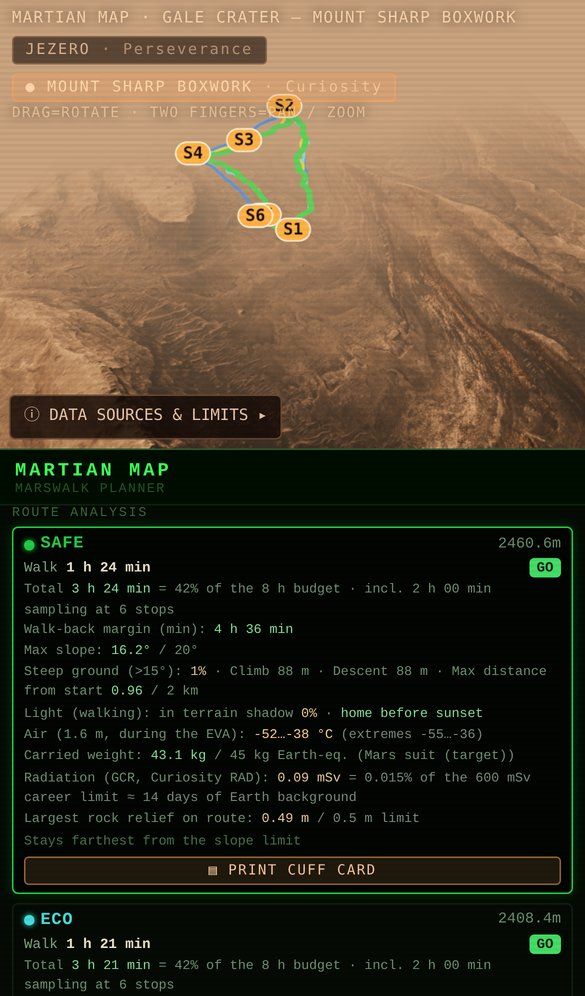
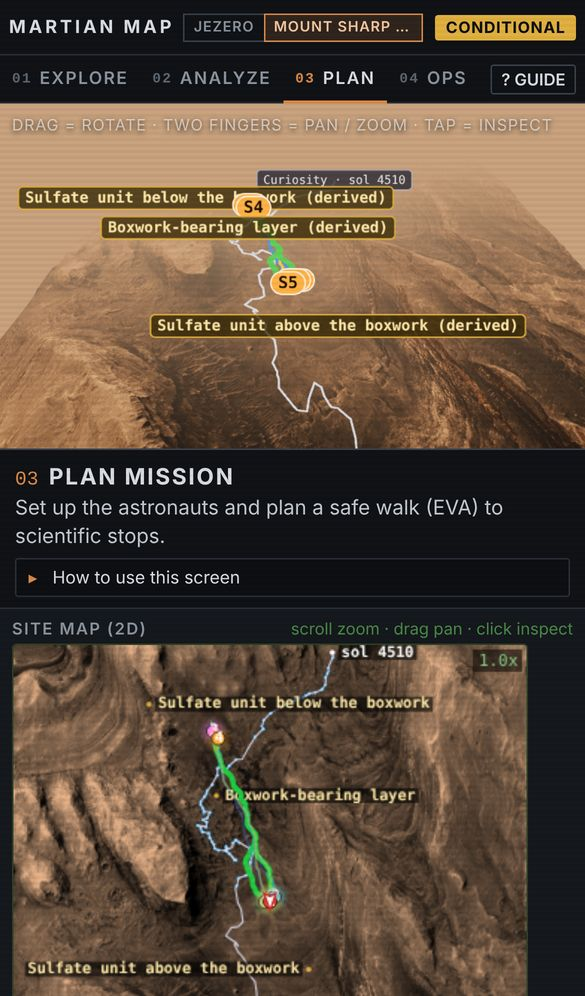
docs(readme): four workspaces, dust-devil re-route, wrist console, AI segmentation, new screenshots
- Intro, at-a-glance, quick start and the 13-step table with the workspace of each step
- New section: the interface — four workspaces (panel order, catalog, inspector, timeline, crew framing)
- Dust devil: 25 m safety zone, SAFE re-plan to the destination, retrace fallback (replaces the old abort text)
- Martian EVA Cuff: screens, honest labels, offline copy, printed backup checklist
- Challenge table, provenance (AI-predicted), tests (174 JS + 11 Python + 12 segmentation),
  honest limits, credits (AI4Mars, MobileNetV3), repository map, rebuild workflows, doc links
- Screenshots: hero (Operations), Explore / Analyze / Plan, dust re-route, wrist console, tablet, phone

Claude-Session: https://claude.ai/code/session_01XjSewtSs7RhtByy8FnJEXA

diff --git a/README.md b/README.md
@@ -13,11 +13,11 @@
 
 ---
 
-The first people to walk on Mars will want the best map possible. **Martian Map** is that map for two real places where NASA rovers have worked: the floor of **Jezero crater** around the Perseverance landing site, and the **boxwork ridges of Mount Sharp** in Gale crater that Curiosity explored in 2025–26. It layers data from **four NASA Mars missions** into a single 3D view, plans a two-person **Marswalk** that visits the most interesting rocks, minerals and chemistry, proves at every step that the crew can still walk home (or back to their rover), plays the whole EVA out on a mission clock — and prints it as an Apollo-style **cuff card** for the wrist.
+The first people to walk on Mars will want the best map possible. **Martian Map** is that map for two real places where NASA rovers have worked: the floor of **Jezero crater** around the Perseverance landing site, and the **boxwork ridges of Mount Sharp** in Gale crater that Curiosity explored in 2025–26. It layers data from **four NASA Mars missions** into a single 3D view, plans a two-person **Marswalk** that visits the most interesting rocks, minerals and chemistry, proves at every step that the crew can still walk home (or back to their rover), plays the whole EVA out on a mission clock — re-planning a safe route on the spot when a dust devil crosses the way — and puts it on the astronaut's wrist as a **wrist console** and an Apollo-style printed **cuff card**. The work is split into four screens that follow a mission from start to finish: **01 EXPLORE → 02 ANALYZE → 03 PLAN MISSION → 04 OPERATIONS**.
 
 > **Why another Mars map?** Tools like JPL's Mars Trek and the USGS–NASA geologic maps layer data over the whole planet, at regional scale. An astronaut on a single Marswalk needs the opposite: one 2 km × 2 km area, every layer on the same **4 m grid**, rocks picked out at **1 m**, and a plan that says *where to walk, what to sample, and when to turn back*. Martian Map is built for that hyperlocal scale.
 
-![EV1 kneels to sample an olivine stop at Jezero while EV2 documents; the HUD shows the mission clock, the live walk-back margin, sun, air temperature and dose; the side panel shows the map, terrain modes and EVA limits](docs/img/hero.jpg)
+![04 OPERATIONS at Jezero: EV1 kneels to sample stop 1 while EV2 documents; the EVA timeline runs across the top; the HUD shows the mission clock, walk-back margin, distance from the habitat, sun, air temperature, dose and the oxygen & mass panel; the side panel shows the site map, START / RESUME EVA, the camera angle and the helmet camera](docs/img/hero.jpg)
 
 ## At a glance
 
@@ -34,10 +34,14 @@ The first people to walk on Mars will want the best map possible. **Martian Map*
 | **Oxygen & mass** | live O₂ use per NASA BVAD life-support scenario (0.076 / 0.15 / 1.0 kg/h), O₂ for the walk home + reserve, carried mass falling as O₂ is used ([details](#oxygen-and-carried-mass)) |
 | **EVA assessment** | three separate results, no combined score: **A. Payload & Mass** · **B. Dust Exposure & Equipment Reliability** (qualitative, sourced) · **C. Terrain & Mobility** ([details](#suit-payload-and-dust--three-separate-assessments)) |
 | **Hazard map** | slope and rock walls, obstacle buffer, closed depressions, steep / rough ground, rover reach, ground known only from orbit |
-| **Provenance** | every layer labelled direct measurement / orbital / derived / transferred reference / modelled / simulated |
+| **Dust devil during the EVA** | 25 m safety zone around it, a new **SAFE route to the destination** planned from the point where the crew sees it; only if none is safe, back to the start the way they came ([details](#dust-devil-on-the-route--a-new-safe-route-not-a-run-home)) |
+| **Provenance** | every layer labelled direct measurement / orbital / derived / transferred reference / modelled / simulated / AI-predicted |
 | **EVA limit sets** | Lunar ConOps (NASA) or **Mars conservative** (derived for Mars gravity) |
-| **Outputs** | 3D planning view, live EVA HUD, printable **cuff card** (A4 / PDF); works on desktop, tablet and phone |
-| **Tests** | 146 JavaScript (incl. real-data runs of every objective on both sites, and Moon mode) + 7 Python + lint + README figure check on every push before deploy; browser tests (desktop, tablet, phone, cuff-card PDF, Gale, Moon) in their own workflow |
+| **AI terrain segmentation** | soil / bedrock / sand / big rock on 445 rover Navcam frames, model trained on NASA/JPL AI4Mars — measured accuracy, never changes a route ([details](#mars-ai-terrain-segmentation--what-the-ground-in-the-rover-images-is)) |
+| **3D terrain** | 4 m mesh lit by the **1 m HiRISE DTM** relief shading (×1 true, ×2 / ×4 emphasised), HiRISE image or elevation colours, data layers draped on top |
+| **Interface** | four workspaces — **Explore · Analyze · Plan Mission · Operations** — with a data catalog, one inspector for every point / layer / stop / route, an EVA timeline band and a first-visit guide ([details](#the-interface--four-workspaces)) |
+| **Outputs** | 3D planning view, live EVA HUD, **Martian EVA Cuff** wrist console, printable **cuff card + EVA backup checklist** (2 × A4 / PDF), JSON export, share link; works on desktop, tablet and phone |
+| **Tests** | 174 JavaScript (incl. real-data runs of every objective on both sites, and Moon mode) + 11 Python + lint + README figure check on every push before deploy; browser tests (all four workspaces, desktop, tablet, phone, two-page cuff PDF, wrist console, Gale, Moon) in their own workflow; 12 Python tests for the segmentation pipeline in its own workflow |
 
 ## Try it
 
@@ -47,32 +51,72 @@ The first people to walk on Mars will want the best map possible. **Martian Map*
 | **Offline** | **Code → Download ZIP** → unzip → `MartianMap/Start-Windows.bat` (Windows) or `MartianMap/start-mac-linux.sh` (macOS / Linux). Needs only Python 3. |
 | **From source** | `pnpm install`, then `pnpm dev` (tests: `pnpm test`; lint: `pnpm --filter martian-map lint`; browser tests after a build: `pnpm --filter martian-map e2e`) |
 
-**Quick tour** — the 13 numbered buttons at the top of the panel walk through the same steps and show the next one. A step counts as done only when its inputs are complete and current; changing an upstream setting re-opens the steps that depend on it.
+**First visit.** A short guide opens once: what Martian Map is, the four workspaces and a three-click quick start. It is always under **? GUIDE** in the top bar, and each workspace has a closed *How to use this screen* slot with its three steps. Long explanations (what a route mode optimises, why a decision is CONDITIONAL …) sit in closed slots that open with a click, so the screen stays readable.
 
-1. **Mission objective** — choose one of the site's five; *PLAN SCIENCE EVA* stays locked until you do. Changing it later re-plans the stops.
-2. **Exploration site** — **JEZERO** or **MOUNT SHARP BOXWORK** at the top left (each site has its own objectives and layers).
-3. **Crew & equipment** — suit, **EVA limits** (Lunar ConOps / Mars conservative), pressurized rover as safe haven, *keep 4 m from obstacles*, **oxygen** scenario, initial O₂ and reserve.
-4. **Payload & mass** — one equipment figure or an itemised payload; total, limit and remaining capacity.
-5. **Dust & equipment reliability** — the four dust protection settings (done when none is left "not specified").
-6. **Data layers** — Map Layers (minerals, thermal inertia, geology, rocks, slope …), **COMPARE LAYERS** swipe, **DRAPE ON 3D TERRAIN**; *provenance table* in the data-sources box.
-7. **Hazard assessment** — the **Hazards** layer.
-8. **Science stops** — *PLAN SCIENCE EVA*; tap a stop for its card (why chosen, what to look at, evidence, risk, confidence), **ground view** or **chemistry**.
-9. **EVA route** — SAFE / ECO / FAST / AUTO, each with its elevation profile.
-10. **Terrain & mobility** — part C of the EVA assessment under the decision.
-11. **GO / NO-GO** — the mission summary, the decision with its reasons, and the three separate assessments.
-12. **EVA simulation** — **START EVA** (×1 … ×600, **ABORT EVA**, **SIMULATE DUST DEVIL**); the HUD shows the decision, payload, dust and mobility status and the O₂ & mass panel.
-13. **Mission export & cuff card** — **PRINT CUFF CARD** (objective, coordinates, stations with the direction home, hazards, equipment and dust warnings, data limits), **EXPORT JSON** (objective, stop cards, decisions, assessments, provenance), **SHARE LINK**.
+**Quick start — three clicks**
 
-## On a tablet or a phone
+1. **03 PLAN MISSION** → choose a mission objective → **PLAN SCIENCE EVA**.
+2. Read the decision at the top right (**GO / CONDITIONAL / NO-GO / INSUFFICIENT DATA**) and open *Why?* for the reasons.
+3. **04 OPERATIONS** → **START EVA** to watch the walk, **OPEN WRIST CONSOLE**, or **PRINT CUFF CARD**.
 
-The same app adapts to the screen, so it can travel from the habitat display to a tablet or the crew's phone. On a phone the panel becomes a sheet under the 3D view and the EVA HUD shrinks to the four safety numbers.
+**The whole workflow — 13 steps.** The numbered strip at the top of the Plan Mission and Operations panels walks through the steps in order and shows the next one; each button opens the workspace that holds that step. A step counts as done only when its inputs are complete and current; changing an upstream setting re-opens the steps that depend on it.
+
+| # | Step | Where | What you do |
+|---:|---|---|---|
+| 1 | **Mission objective** | 03 PLAN MISSION | choose one of the site's five; *PLAN SCIENCE EVA* stays locked until you do. Changing it later re-plans the stops |
+| 2 | **Exploration site** | top bar | **JEZERO** or **MOUNT SHARP BOXWORK** (each site has its own objectives and layers) |
+| 3 | **Crew & equipment** | 03 PLAN MISSION → mission configuration | suit, **EVA limits** (Lunar ConOps / Mars conservative), pressurized rover as safe haven, *keep 4 m from obstacles*, **oxygen** scenario, initial O₂ and reserve |
+| 4 | **Payload & mass** | 03 PLAN MISSION | one equipment figure or an itemised payload; total, limit and remaining capacity |
+| 5 | **Dust & equipment reliability** | 03 PLAN MISSION | the four dust protection settings (done when none is left "not specified") |
+| 6 | **Data layers** | 01 EXPLORE · 02 ANALYZE | tick layers in the **data catalog** (several at once, each with its own opacity), **COMPARE LAYERS** swipe, **DRAPE ON 3D TERRAIN**; ⓘ or a click on the terrain opens the inspector |
+| 7 | **Hazard assessment** | 02 ANALYZE | the **Hazards** layer |
+| 8 | **Science stops** | 03 PLAN MISSION | *PLAN SCIENCE EVA*; open a stop for its card (why chosen, what to look at, evidence, risk, confidence), **ground view** or **chemistry** |
+| 9 | **EVA route** | 03 PLAN MISSION | SAFE / ECO / FAST / AUTO — each with what it optimises, its cost and elevation profile — and the route comparison |
+| 10 | **Terrain & mobility** | 04 OPERATIONS | part C of the EVA assessment under the decision |
+| 11 | **GO / NO-GO** | 04 OPERATIONS | the mission summary, the decision with its reasons, and the three separate assessments |
+| 12 | **EVA simulation** | 04 OPERATIONS | **START EVA** (×1 … ×600, **ABORT EVA**, **SIMULATE DUST DEVIL**), camera angle, helmet camera, **wrist console**; the HUD shows the decision, payload, dust and mobility status and the O₂ & mass panel |
+| 13 | **Mission export & cuff card** | 04 OPERATIONS | **PRINT CUFF CARD** (page 1: objective, coordinates, stations with the direction home, hazards, equipment and dust warnings, data limits; page 2: EVA backup checklist), **EXPORT JSON** (objective, stop cards, decisions, assessments, provenance), **SHARE LINK** |
+
+## The interface — four workspaces
+
+The Mars sites open in four workspaces, one per stage of a mission. Switching keeps everything (plan, layers, EVA clock); only the layout changes, and every number still comes from the same planner. The top bar always shows the site and the mission status: objective · route · decision · EVA. Design notes and the NASA tools that inspired the layout (Mars Trek, RSVP, Playbook, Eyes): [`docs/WORKSPACES.md`](docs/WORKSPACES.md).
+
+| Workspace | Left | Centre | Right panel, top to bottom |
+|---|---|---|---|
+| **01 EXPLORE** — look at the site and what each layer shows | data catalog | 3D terrain | inspector of the clicked point, site map, camera |
+| **02 ANALYZE** — check the data the plan rests on, and what is missing | data catalog | 3D terrain | inspector, terrain analysis (layers, legend, compare, drape), scientific data available and missing, helmet camera, **Mars AI terrain segmentation**, provenance table |
+| **03 PLAN MISSION** — set up the crew and plan the walk | — | 3D terrain + **EVA timeline** | **site map** → **waypoints** (mark points on the map) → **route modes** SAFE / ECO / FAST / AUTO → objective & science stops → route comparison → mission configuration |
+| **04 OPERATIONS** — decide and run the EVA | — | 3D terrain + **EVA timeline** | **site map** → **START EVA** (the route chosen in Plan, not asked again) → **camera angle** (free / follow EV1 / overview) → **helmet camera** (image processing: elevation / slope view) → **Martian EVA Cuff** → mission summary & GO / NO-GO → contingency, telemetry, export, log |
+
+- **Data catalog** — built from what the site actually loaded, by category (imagery, topography, geology, mineralogy, thermal, AI terrain segmentation, hazards, atmospheric, radiation). Tick a layer to drape it on the 3D terrain; several layers can be draped at once, each with its opacity and draw order; ⓘ opens its description and source.
+- **Inspector** — one card for a map point (coordinates, elevation, slope, hazard, distance home, *add as waypoint*), a data layer, a science stop or a route, with tabs for overview, scientific evidence, data source, technical details and mission relevance.
+- **EVA timeline** — walking legs, stops (S1, S2 …) and the walk home of the active route on one time axis, with the EVA budget, point of no return, sunset and oxygen limits; a cursor follows the EVA clock during playback, and a click on a stop opens it in the inspector.
+- **3D view** — the follow camera frames both astronauts, EV1 and EV2, side by side and full height, so their position and posture are clear from the first second; *Overview* shows the whole route from above. The astronauts carry the team's Periapsis patch on their backpacks.
+- **Readable on a screen across the room** — larger text across all panels, closed slots for long explanations, and status always written as a word next to its colour.
 
 <table>
 <tr>
-<td width="73%"><img src="docs/img/tablet.jpg" alt="Tablet (iPad Pro 11, landscape): EVA playback at Jezero — EV1 samples stop 1 while the HUD shows mission time, walk-back margin, distance from the habitat, sun, air temperature and dose; the side panel shows the dose comparison and the SAFE route card"></td>
-<td width="27%"><img src="docs/img/phone.jpg" alt="Phone (iPhone 13, portrait): a planned Gale EVA seen from above, with its SAFE route card in the sheet below"></td>
+<td width="50%"><img src="docs/img/ws-explore.jpg" alt="01 EXPLORE at Jezero: the data catalog on the left with CRISM minerals draped on the terrain, the planned route from above in the centre, and the inspector of a clicked map point (coordinates, elevation, slope, hazard, distance home) above the site map on the right"></td>
+<td width="50%"><img src="docs/img/ws-analyze.jpg" alt="02 ANALYZE at Jezero: the data catalog including the AI terrain segmentation and hazard layers, the two astronauts on the terrain, and the inspector of the CRISM mineral layer above the terrain analysis with the surface geology map and its legend"></td>
 </tr>
-<tr><td align="center"><b>Tablet</b> — EVA playback at Jezero</td><td align="center"><b>Phone</b> — a planned Gale EVA and its route card</td></tr>
+<tr><td align="center"><b>01 EXPLORE</b> — catalog, drapes, point inspector</td><td align="center"><b>02 ANALYZE</b> — layer inspector, terrain analysis</td></tr>
+<tr>
+<td width="50%"><img src="docs/img/ws-plan.jpg" alt="03 PLAN MISSION at Jezero: the EVA timeline across the top, both astronauts full height in the 3D view, and on the right the site map with the planned route, the waypoint list with ADD / REMOVE / PLAN PATH and the SAFE / ECO / FAST / AUTO route modes"></td>
+<td width="50%"><img src="docs/img/hero.jpg" alt="04 OPERATIONS at Jezero during the EVA: site map, RESUME / ABORT EVA, camera angle and helmet camera on the right, the HUD over the 3D view"></td>
+</tr>
+<tr><td align="center"><b>03 PLAN MISSION</b> — map → waypoints → route modes</td><td align="center"><b>04 OPERATIONS</b> — map → EVA → camera angle → helmet camera</td></tr>
+</table>
+
+## On a tablet or a phone
+
+The same app adapts to the screen, so it can travel from the habitat display to a tablet or the crew's phone. The four workspaces stay in the top bar (short names on a tablet; their own row on a phone). On a phone the panel becomes a sheet under the 3D view, the 3D view takes touch gestures (drag = rotate, two fingers = pan / zoom, tap = inspect) and the EVA HUD shrinks to the four safety numbers.
+
+<table>
+<tr>
+<td width="73%"><img src="docs/img/tablet.jpg" alt="Tablet (iPad Pro 11, landscape), 04 OPERATIONS: EVA playback at Jezero — EV1 samples stop 1 while the HUD shows mission time, walk-back margin, distance from the habitat, sun, air temperature, dose and oxygen; the side panel shows the site map, RESUME / ABORT EVA and the camera angle"></td>
+<td width="27%"><img src="docs/img/phone.jpg" alt="Phone (iPhone 13, portrait), 03 PLAN: a planned Gale EVA seen from above with the derived stratigraphic levels labelled, and the site map in the sheet below"></td>
+</tr>
+<tr><td align="center"><b>Tablet</b> — 04 OPERATIONS, EVA playback at Jezero</td><td align="center"><b>Phone</b> — 03 PLAN, a Gale EVA and the site map</td></tr>
 </table>
 
 ## Two sites, one pipeline
@@ -154,10 +198,11 @@ Every chosen stop has a **stop card**: position (lat / lon and metres from the s
 | Identify a **science objective** and a location | Five selectable objectives per site that **change the planner's candidates and weights** — from Jezero's olivine–smectite alteration to Gale's boxwork ridges and ChemCam re-sampling; each with purpose, relevance and sources, and a card for every stop saying why it was chosen. The Gale site follows the challenge's own example: Curiosity's 2025 boxwork study on Mount Sharp |
 | **Astronaut safety first**; space weather, radiation | A **dose-rate comparison** — Earth, ISS, Moon, Mars, all measured — so the crew sees why Mars is different; a **Mars-conservative EVA limit set**; walk-back margin and point of no return; per-route **GCR dose** vs the 600 mSv NASA career limit; **DONKI space-weather advisory** (solar particle event within ±2 days → postpone); **daylight** (home before sunset, or NO-GO); terrain shadow, expected air temperature. See [Safety first](#safety-first) |
 | Spacesuits and **carried equipment** affect mobility | **Mission setup**: Mars suit (104 kg) or lunar xEMU (170 kg) plus equipment; the carried weight on Mars must stay under NASA's 45 kg Earth-equivalent limit, or the plan is NO-GO. **Mars conservative** limits slow the walk by the measured suited cost at Mars gravity |
-| A **route map** that **avoids obstacles such as large rocks** | A* on walking time; slopes above 20° and **rock outcrops / boulders** found in the 1 m HiRISE DTM are walls; an optional **4 m buffer** inflates them; the **Hazards** layer adds closed depressions, steep and rough ground and ground known only from orbit |
+| A **route map** that **avoids obstacles such as large rocks** | A* on walking time; slopes above 20° and **rock outcrops / boulders** found in the 1 m HiRISE DTM are walls; an optional **4 m buffer** inflates them; the **Hazards** layer adds closed depressions, steep and rough ground and ground known only from orbit. During the EVA a **dust devil** becomes a moving-in obstacle: a 25 m safety zone and a new SAFE route to the destination, re-planned on the spot |
 | **Rovers** to transport the crew; astronauts **in pairs** | **Pressurized rover as safe haven**: the crew may never be more than a 30-minute walk from it; a two-person crew (EV1 + EV2) walks the plan |
 | **Point-of-view images** so the astronaut knows what to expect | **Ground view** on every science stop: the rover's own Navcam / Mastcam(-Z) frames taken from the position closest to the stop, facing it |
-| A format crews could use: habitat display, tablet, **HUD** | Planning view for the habitat (desktop / tablet; on a phone the panel becomes a bottom sheet under the 3D view), an EVA **HUD** with mission clock, live walk-back margin, distance home, sun, temperature and dose, and a printable **cuff card** for the wrist |
+| A format crews could use: habitat display, tablet, **HUD** | Four workspaces for the habitat display (desktop / tablet; on a phone the panel becomes a bottom sheet under the 3D view), an EVA **HUD** with mission clock, live walk-back margin, distance home, sun, temperature, dose and oxygen, the **Martian EVA Cuff** wrist console, and a printable **cuff card** with an EVA backup checklist |
+| Image data to understand the ground | **Mars AI terrain segmentation**: a model trained on NASA/JPL AI4Mars labels soil, bedrock, sand and big rock in the rover images near the route, with measured accuracy and honest limits |
 | A map that can be a **static snapshot**; **inspiration from maps made for other destinations** | The **cuff card**: one printed page per EVA — photo map of the route plus a station table with arrival, stay, walk-back and *leave-by* times — modelled on the Apollo 15–17 cuff checklists and traverse planning data. See [Inspiration](#inspiration-apollo-cuff-checklists) |
 | A time frame | Pick any date and local solar time: sun, shadows, temperature climatology and DONKI events follow it |
 
@@ -320,7 +365,8 @@ The data-sources box opens a **provenance table** (`web/src/config/provenance.js
 | **Derived (this project)** | rock relief | rock relief, **geological units** (an interpretation, not a published map) |
 | **Transferred reference** | **RAD radiation** (measured in Gale, ~3,750 km away), dose rates of Earth / ISS / Moon | dose rates of Earth / ISS / Moon |
 | **Modelled** | sun and local time (Mars24), suited walking speed | same |
-| **Simulated** | EVA playback, astronauts, dust devil | same |
+| **Simulated** | EVA playback, astronauts, dust devil and its re-route | same |
+| **AI-predicted** | terrain classes on 37 Perseverance Navcam frames | terrain classes on 408 Curiosity Navcam frames |
 | **Investigated, not available** | SuperCam / PIXL chemistry | CRISM minerals, THEMIS thermal inertia |
 
 ![Provenance table at Gale: each layer with its kind, mission and instrument, observation sols, resolution and coverage, processing, uncertainty and limitations; below, the layers that are not available and why](docs/img/provenance.jpg)
@@ -386,11 +432,26 @@ The challenge lists five NASA resources; we also looked at NASA's other public m
 
 ## Martian EVA Cuff — the mission on the astronaut's wrist
 
-**04 OPERATIONS → Martian EVA Cuff** opens a proposed forearm console: STATUS, MAP, TASKS, HAZARDS and RETURN
-on five keys, a guarded EMER key one press from anywhere, PLAY / ABORT wired to the EVA playback. It shows the selected
-mission and follows the playback — position marked PLANNED or SIMULATED, oxygen as the scenario model — and is never GO
-when the return is unsafe. The printed cuff card gained a second page, an **EVA backup checklist** usable without
-the console. A design concept, not a NASA or flight-qualified device — see [`docs/EVA_CUFF.md`](docs/EVA_CUFF.md).
+**04 OPERATIONS → Martian EVA Cuff → OPEN WRIST CONSOLE** opens a proposed forearm console for the selected mission, inspired by the Apollo 15–17 cuff checklists and rugged wrist displays. A design concept, not a NASA or flight-qualified device — see [`docs/EVA_CUFF.md`](docs/EVA_CUFF.md).
+
+| Key | Screen |
+|---|---|
+| **F1 STATUS** | mission elapsed time, EVA time left, decision, O₂ left and how long it lasts, walk-back margin, next waypoint |
+| **F2 MAP** | the route with stops (done / here / next), hazard marks, the crew's position and any walk-home path |
+| **F3 TASKS** | each stop: state, stay, arrival, *leave by*, what to do, geology, objective, kit and terrain risk |
+| **F4 HAZARDS** | the route's hazards, each with its kind of evidence (MEASURED, ORBITAL, DERIVED, MODEL, AI-PREDICTED, PROJECT RULE, SIMULATED, NASA REF) |
+| **F5 RETURN** | return status and warnings, distance and bearing to the habitat, fastest walk home, margin, EVA time left, O₂ left against the O₂ the walk home needs |
+| **EMER** (guarded) | the emergency reference, one press from any screen: only the rules this planner applies and their NASA sources — no invented suit or comms procedures |
+| **PLAY · ABORT · PRINT** | drive the EVA playback; open the printed backup |
+
+- **Honest labels.** Position is **PLANNED** before the EVA and **SIMULATED** during the playback, never live telemetry; oxygen is the scenario model, not a tank sensor. The console is **never GO** when the return is unsafe (margin < 0, point of no return passed, O₂ short): it shows **NO-GO / RETURN NOW**.
+- **One source of truth.** Console and printed page 2 are built by the same pure function (`web/src/utils/evaCuff.js` `cuffModel()`) from the planner, the decision, the stop cards, the oxygen model and the playback, so they always agree.
+- **Offline copy.** The last mission is kept in the browser and shown as *OFFLINE COPY hh:mm — may be stale* when no mission is loaded.
+- **Printed backup.** The cuff card gained a second A4 page, the **EVA backup checklist**: tick-box EVA sequence with *leave by* times, equipment, resource limits, return rules, hazards and the emergency reference — usable without the console.
+
+<img src="docs/img/eva-cuff.jpg" width="640" alt="Martian EVA Cuff wrist console during the simulated EVA at Jezero: F1–F5 keys on the left, the STATUS screen with mission time, EVA time left, CONDITIONAL status, oxygen left and duration, walk-back margin and the next waypoint, and the guarded EMER, PLAY, ABORT and PRINT keys on the right">
+
+Concept limits: no sensors, positioning, tank pressure, radio link, physical keys or glove testing — position, time and oxygen use come from the playback and the scenario model.
 
 ## Inspiration: Apollo cuff checklists
 
@@ -417,9 +478,23 @@ Every number on the card is the planner's own: the same timeline the GO / NO-GO 
 - Two astronauts walk the plan on a mission clock (×1 … ×600). Positions come from the planner's own timeline, so what you see is exactly what the GO decision was based on.
 - At each stop EV1 kneels and samples while EV2 documents; a flag marks every sampled stop.
 - The HUD shows mission elapsed time, the current activity, the **live walk-back margin**, distance from the habitat, the sun, the site's air temperature (MEDA or REMS) and the **radiation dose so far**.
-- **ABORT EVA** sends the crew home on the fastest path; a **dust devil** on the route within the next 10 minutes of walking triggers an automatic abort.
+- The **camera angle** sits right under START EVA: *Follow EV1* keeps both astronauts in frame, *Overview* shows the whole route, *Free* lets you fly around. The **helmet camera** under it is EV1's processed view of the ground ahead (elevation contours or slope classes).
+- **ABORT EVA** sends the crew home on the fastest path.
+- **SIMULATE DUST DEVIL** places a dust devil; what the crew does when they see it is below.
 
-![A dust devil on the route ahead triggers an abort; the crew walks home on the fastest path (dashed)](docs/img/abort.jpg)
+### Dust devil on the route — a new SAFE route, not a run home
+
+Every moment of the playback looks 10 minutes of walking ahead. When the route comes near a dust devil (`web/src/utils/dustReroute.js`):
+
+1. **Safety zone.** A no-go zone of the dust devil's radius **+ 25 m** is set around it, drawn as a dashed yellow ring. Stops inside it are skipped.
+2. **New route from where they are.** A new **SAFE** route is planned from the point where the crew saw it, through the remaining stops to the **destination** (the plan's last point), with the zone closed to the planner. A stop being sampled is finished first.
+3. **Accepted only if it is safe:** it never comes near the dust devil, the crew can walk home around it at every point within the EVA budget, the oxygen left covers the rest of the plan plus the reserve, and they are home before sunset.
+4. **The crew is told.** The new route is drawn in yellow, the EVA timeline, live walk-back margin and oxygen check switch to it, and a message says *"Dust devil detected — 25 m safety zone set; new SAFE route planned from here (+extra time) · skipped stops"*.
+5. **Only if no safe route exists** — for example because the terrain closes every way round — the message says *"no new route to the destination found (reason). Returning to the start point the way they came for safety"*, and the crew walks back along the path already walked (around the zone if that path enters it).
+
+A second alarm for the same dust devil aborts the EVA. Details and tests: [`docs/DUST_REROUTE.md`](docs/DUST_REROUTE.md).
+
+![A dust devil next to the route at Jezero seen from above: the dashed safety ring around it, the new SAFE route in yellow past it to stop 3, and the HUD message "Dust devil detected — 25 m safety zone set; new SAFE route planned from here"](docs/img/dust-reroute.jpg)
 
 ## The layers — real data, labelled by kind
 
@@ -447,17 +522,16 @@ Every number on the card is the planner's own: the same timeline the GO / NO-GO 
 
 ## Verified, not just drawn
 
-`node --test web/tests/*.test.mjs` (174 tests) and `python -m unittest discover pipeline/tests`, run on every push before the demo is deployed, together with:
+`node --test web/tests/*.test.mjs` (174 tests) and `python -m unittest discover pipeline/tests` (11 tests), run on every push before the demo is deployed, together with:
 
 - **Lint** (`pnpm --filter martian-map lint`): undefined names, JSX components that do not exist, rules of hooks.
 - **README figures** (`pnpm --filter martian-map readme:figures:check`): every route figure in this README is marked `<!--fig:…-->` and recomputed from the real site files by the planner. The deploy fails if one has drifted; `pnpm --filter martian-map readme:figures` rewrites them.
 - **Browser tests** (`.github/workflows/e2e.yml`, `pnpm --filter martian-map e2e` after a build): the production build in headless Chromium.
-  - Jezero plan → decision and three assessments → EVA HUD → cuff card with all its sections + the EVA backup checklist, printed as a two-page A4 PDF (one page each); the wrist console screens and one-press EMER.
+  - Jezero plan → all four workspaces → decision and three assessments → EVA HUD → cuff card with all its sections + the EVA backup checklist, printed as a two-page A4 PDF (one page each); the wrist console screens and one-press EMER.
   - Phone and tablet: 13-step workflow, no horizontal scroll, HUD clear of the site switcher and the panel.
   - Gale objectives, and the Moon simulator unchanged.
   - Screenshots are uploaded as a build artifact.
-
-| Area | What is checked |
+- **Segmentation pipeline** (`.github/workflows/mars-segmentation.yml`): 12 Python tests — the AI4Mars label key, splits by Mars day with no frame in two splits, image and label resizing and rejections, the confusion matrix, mean IoU and confidence calibration.
 
 | Area | What is checked |
 |---|---|
@@ -479,6 +553,11 @@ Every number on the card is the planner's own: the same timeline the GO / NO-GO 
 | Workflow & export | the 13 steps in order; a step is done only when its inputs are complete and current (unknown dust setting, invalid payload or O₂, stops of another objective leave it open); the shared assessment helper and the JSON export carry the current plan, settings, decisions, assessments and provenance (real Jezero) |
 | Edge cases (real Jezero) | coordinates outside the site or not finite are rejected (never moved onto the edge); a Gale objective at Jezero is refused; nothing fits → empty stop list; a target in a wall → route ends on the nearest walkable cell; payload over the limit → NO-GO; missing dust settings → dust INSUFFICIENT DATA, decision unchanged; future date → space weather unknown, never GO; 7.5-h stay → negative margin, point of no return, NO-GO, oxygen NO-GO; excessive slope stays NO-GO whatever payload / dust / oxygen say; no start time → INSUFFICIENT DATA |
 | Oxygen & mass | BVAD values; depletion per scenario; zero boundary; pause and speed multipliers; walking, stops and abort consume; rate change mid-EVA not retroactive; reserve and depletion warnings; mass without double counting; NO-GO / CONDITIONAL / INSUFFICIENT DATA; real Jezero and Gale routes; Moon mode unaffected |
+| Dust devil re-route | around a dust devil on the leg ahead (both stops kept, never inside the trigger radius, home, margin ≥ 0, restart); a dust devil on a stop skips it; budget too tight → abort and the walk home avoids it; strict "no path" when it closes home; a second alarm aborts; a one-way plan re-routes to the destination, and the fallback retraces the way they came |
+| Wrist console | PLANNED before and SIMULATED during the EVA; route mode, payload and decision changes reach it; stop states and live margin follow the playback; never GO with an unsafe return; equipment and sources; no invented suit procedures |
+| Workspaces | the catalog lists only what the site loaded, each item with a provenance record; route-mode explanations are the planner's own weights; timeline legs, stops and walk home tile the planned round trip; the point inspector reads the grids and follows the planner's thresholds (real Jezero) |
+| 3D relief shading | the relief texture covers the site grid exactly; decoding (flat = straight up, 45° east face = 45°); emphasis changes only the shading, heights stay unchanged; Python tests for the normals from the 1 m DTM |
+| AI segmentation | AI4Mars class mapping and unknown pixels; mask colours and statistics; nearest prediction to a rover position; index and model card validation; both sites' prediction files present and linked to real rover positions |
 | Mobility & integration | no payload or dust penalty (real Jezero route and walking times identical with 0 and 40 kg); the Mars speed factor applies outbound and on the return; dust never changes the decision; an over-limit payload is NO-GO through the existing rule |
 | Provenance | every record complete and categorised against the real files; Jezero RAD transferred; Gale geology derived; CRISM / THEMIS / SuperCam shown as unavailable with reasons |
 | Rover track | waypoints come out in drive order and split where the rover leaves the site; every region label lies inside its own unit |
@@ -495,6 +574,9 @@ Every number on the card is the planner's own: the same timeline the GO / NO-GO 
 - **Dust and equipment.** Qualitative only: no validated data gives degradation rates or failure probabilities for suits or tools in Martian dust, so none are computed. Most evidence is lunar (Apollo, lunar simulant) and is used as an analogy; the Perseverance spacesuit samples are Mars data but their per-material results are not yet published. Dust-mantled ground is known only at Jezero (100 m thermal-inertia pixels); the dusty season is a seasonal pattern, not a storm forecast.
 - **Oxygen.** The rates are NASA architecture references for a 4-hour Mars sortie, not measured Mars-suit consumption, and they do not follow activity. A Mars-suit oxygen capacity is not published, so the sized initial oxygen is an assumption, as is the suit mass including its oxygen. Secondary oxygen and buddy sharing are not modelled.
 - **Payload.** Carried mass does not change walking speed, because no validated load–speed model at Mars gravity was found; the payload acts only through the weight limit. The suit radio is assumed to be inside the life-support mass.
+- **Dust devil.** It stands still (real ones drift with the wind); its 35 m radius, the ×1.35 trigger and the 25 m safety distance are illustrative design choices, and no NASA EVA dust-devil avoidance procedure was found — the re-route is a planning demonstration, not an operational rule.
+- **Wrist console.** A proposed concept running in the browser: no hardware, sensors, positioning, tank pressure or radio link; position, time and oxygen come from the playback and the scenario model, and the "offline copy" is browser storage.
+- **Interface.** The Moon simulator (`?site=moon`) keeps its original single-panel layout; 3D stop badges and route segments are not clickable (stops open from the stop list or the timeline).
 - **Hazards.** Closed depressions are found only where the DTM sees them (≥ 1 m deep); "known only from orbit" uses the positions the rover took ground views from, not everywhere it could see.
 - **Resolution.** A 1 m DTM shows rocks of a few metres, not smaller ones. Jezero's landing area was chosen for being smooth, so there only a handful of cells exceed the 0.5 m rock-relief limit. CRISM mineral names are the closest match of each spectral class. Thermal-inertia classes are guidance.
 - **Time.** Temperatures are a one-Mars-year climatology, not a forecast. Space weather is queried live from api.nasa.gov for the EVA date (public demo key, rate-limited); offline, or when the lookup fails, the advisory says there is no data. `fetch-donki.yml` can bundle a DONKI archive since 2012 so past dates also work offline — it needs a free NASA API key as the repository secret `NASA_API_KEY`, because GitHub's shared runners hit the demo-key limit. DONKI has no forecast: for a future EVA the advisory says there is no data.
@@ -522,6 +604,10 @@ Every number on the card is the planner's own: the same timeline the GO / NO-GO 
 - Thomson, B., Ettenborough, I., Buczkowski, D., Seelos, K. D., Weitz, C. (2023). *Updated geologic map of the western portion of Aeolis Mons, Gale crater.* GSA Connects 2023, Paper 113-12. [abstract](https://gsa.confex.com/gsa/2023AM/webprogram/Paper394643.html) — the 1:60,000 map not yet published.
 - Wiens, R. C., Maurice, S., et al. *MSL ChemCam LIBS derived data (RDR), major-oxide compositions*, PDS Geosciences Node (Release 42, 2026); calibration: Clegg, S. M., et al. (2017), Spectrochim. Acta B 129, 64–85.
 
+**Rover images for AI segmentation**
+- Swan, R. M., Atha, D., Leopold, H. A., Gildner, M., Oij, S., Chiu, C., Ono, M. (2021). *AI4Mars: A dataset for terrain-aware autonomous driving on Mars.* CVPR Workshops. Data: Swan, R. M., Ono, M., Atha, D. (2022), *AI4Mars merged v0.6*, NASA/JPL, Zenodo, [doi:10.5281/zenodo.15995036](https://doi.org/10.5281/zenodo.15995036) (CC BY 4.0)
+- Howard, A., et al. (2019). *Searching for MobileNetV3* (LR-ASPP segmentation head). ICCV 2019. [arXiv:1905.02244](https://arxiv.org/abs/1905.02244)
+
 **Atmosphere and radiation**
 - Hueso, R., et al. (2024). *Derived environmental temperatures at Jezero crater from the Perseverance Air Temperature Sensors* (v2). Zenodo. [doi:10.5281/zenodo.11198655](https://doi.org/10.5281/zenodo.11198655) (CC BY 4.0)
 - Gómez-Elvira, J., et al. (2012). REMS: The Environmental Sensor Suite for the Mars Science Laboratory Rover. *Space Sci. Rev.* 170, 583–640. Data: REMS MODRDR, NASA PDS Atmospheres Node (mslrem_1001).
@@ -539,11 +625,11 @@ Every number on the card is the planner's own: the same timeline the GO / NO-GO 
 - NASA/JPL-Caltech/ESA/Univ. of Arizona/JHUAPL/MSSS/USGS Astrogeology Science Center. *Curiosity's Proposed Path up Mount Sharp* (PIA23179, 2019) and *Curiosity's Path to Gediz Vallis Ridge and Beyond* ([PIA26042](https://science.nasa.gov/photojournal/curiositys-path-to-gediz-vallis-ridge-and-beyond/), 2023) — the route-map style. NASA/JPL *Mars Trek* ([about](https://trek.nasa.gov/mars/jpl/config/textAbout.html)) — elevation plots. NASA *Worldview* ([comparison mode](https://www.earthdata.nasa.gov/news/blog/introducing-worldviews-comparison-feature)) — layer swipe.
 - Allison, M. & McEwen, M. (2000). Mars24 algorithm, NASA GISS. Tobler, W. (1993), NCGIA TR 93-1.
 
-Audit, feature status and remaining limits for the challenge brief: [docs/CHALLENGE_COMPLIANCE.md](docs/CHALLENGE_COMPLIANCE.md). Payload, dust and mobility assessments: [docs/EVA_ASSESSMENT.md](docs/EVA_ASSESSMENT.md). Oxygen and carried mass: [docs/OXYGEN_AND_MASS.md](docs/OXYGEN_AND_MASS.md). Final integration and acceptance report: [docs/FINAL_VALIDATION.md](docs/FINAL_VALIDATION.md).
+Audit, feature status and remaining limits for the challenge brief: [docs/CHALLENGE_COMPLIANCE.md](docs/CHALLENGE_COMPLIANCE.md). Payload, dust and mobility assessments: [docs/EVA_ASSESSMENT.md](docs/EVA_ASSESSMENT.md). Oxygen and carried mass: [docs/OXYGEN_AND_MASS.md](docs/OXYGEN_AND_MASS.md). Four workspaces: [docs/WORKSPACES.md](docs/WORKSPACES.md). Dust devil re-route: [docs/DUST_REROUTE.md](docs/DUST_REROUTE.md). Wrist console and backup checklist: [docs/EVA_CUFF.md](docs/EVA_CUFF.md). AI terrain segmentation: [docs/MARS_SEGMENTATION.md](docs/MARS_SEGMENTATION.md). Final integration and acceptance report: [docs/FINAL_VALIDATION.md](docs/FINAL_VALIDATION.md).
 
 ## Use of AI
 
-Developed with AI assistance (Anthropic Claude) for code, data pipelines, tests and documentation, under the team's direction and review. All data come from the sources above. The astronauts, dust devil and other 3D objects are original procedural models written in code; no AI-generated images are used.
+Developed with AI assistance (Anthropic Claude) for code, data pipelines, tests and documentation, under the team's direction and review. All data come from the sources above. The astronauts, dust devil and other 3D objects are original procedural models written in code; no AI-generated images are used. The terrain segmentation model is a separate, small network the team trained on the NASA/JPL AI4Mars labels; its outputs are labelled AI-PREDICTED everywhere they appear and never change a route, a rule or a number.
 
 ## Repository map
 
@@ -554,14 +640,19 @@ web/     the web app (React + Three.js / react-three-fiber, Vite)
                           evaTimeline + evaPlayback · orthoImage · hazards · missionStatus · stopCards · shareLink
                           payload · dust · mobility (the three EVA assessments) · oxygen
                           evaAssessments (one route → decision + assessments + export) · workflow (13 steps)
+                          dustReroute (safety zone, SAFE re-plan to the destination, retrace fallback) · evaCuff (wrist console + backup model)
+                          relief (1 m shading) · segmentation (AI terrain classes) · inspect (point inspector) · missionTimeline · routeModes
   src/hooks/              useSpaceWeather (DONKI lookup for the EVA date)
   src/config/             marswalkProfile (EVA limits, hazard thresholds) · mission (suit, equipment, rover)
                           objectives (5 per site) · provenance (every layer, every kind) · dust (sources, components) · oxygen (BVAD scenarios)
-  src/components/         MoonScene (3D) · MarsCrew · EvaHud · RightPanel (panel layout) · SiteSwitcher · MiniMap · HeatmapViewer
-                          HelmetCamPreview · MissionDecision (workflow strip, summary, decision) · ui (small shared parts)
-                          PovViewer (ground view) · ChemistryCard · CuffCard · ElevationProfile · ProvenancePanel · EvaAssessment · OxygenPanel
-  public/sites/jezero/    grid.bin · ortho (HiRISE) · relief (1 m DTM normals) · geology · climate (MEDA) · layers (THEMIS, CRISM, rocks) · pov · track
-  public/sites/gale/      grid.bin · ortho (HiRISE) · relief (1 m DTM normals) · geology (derived) · climate (REMS) · layers (rocks) · chemistry (ChemCam) · pov · track
+                          catalog (data catalog from the loaded site) · crew (astronaut scale, EV2 offset)
+  src/workspace/          TopBar (site, workspaces, mission status) · LayerCatalog · Inspector · MissionTimeline · WelcomeGuide · EvaCuff (wrist console)
+  src/components/         MoonScene (3D, follow camera) · MarsCrew · EvaHud · RightPanel (panel per workspace) · SiteSwitcher · MiniMap · HeatmapViewer
+                          HelmetCamPreview · MissionDecision (workflow strip, summary, decision) · ui (small shared parts, closed slots)
+                          PovViewer (ground view) · ChemistryCard · CuffCard (+ backup checklist) · ElevationProfile · ProvenancePanel · EvaAssessment
+                          OxygenPanel · TerrainSegmentation
+  public/sites/jezero/    grid.bin · ortho (HiRISE) · relief (1 m DTM normals) · geology · climate (MEDA) · layers (THEMIS, CRISM, rocks) · pov · track · segmentation
+  public/sites/gale/      grid.bin · ortho (HiRISE) · relief (1 m DTM normals) · geology (derived) · climate (REMS) · layers (rocks) · chemistry (ChemCam) · pov · track · segmentation
   tests/                  node --test suites (incl. real Jezero / Gale runs and Moon mode)
   e2e/                    browser tests on the production build (Playwright)
   scripts/                readmeFigures (README route figures from the planner)
@@ -569,6 +660,7 @@ pipeline/                 fetch_sources · fetch_gale · fetch_chemistry · fetc
                           build_site · build_ortho · build_relief · build_layers · build_space_weather · build_pov · build_track
                           build_climate · build_climate_rems · build_geology · build_gale_geology · build_chemistry
                           build_offline
+  segmentation/           AI4Mars inventory · prepare · train · evaluate · infer_sites (Mars AI terrain segmentation)
 MartianMap/               ready-to-run offline package
 ```
 
@@ -586,6 +678,7 @@ The processed data are committed, so the app runs as is. Sources are fetched by 
 | `fetch-chemistry.yml` | ChemCam major-oxide tables and target geometry |
 | `fetch-rems.yml` | one Mars year of REMS air temperature, reduced to 5-min means |
 | `fetch-donki.yml` | DONKI solar particle events, Mars-bound CMEs and X flares since 2012 → `space_weather.json` (both sites; weekly). Needs the secret `NASA_API_KEY` |
+| `mars-segmentation.yml` | AI4Mars v0.6 from Zenodo and the rover Navcam frames; trains, evaluates and exports the segmentation model and the site predictions. Started by pushing `pipeline/segmentation/RUN` on an `ml/**` branch with a stage: `inventory`, `smoke`, `full`, or `finish <run-id>` |
 
 Then:
 
